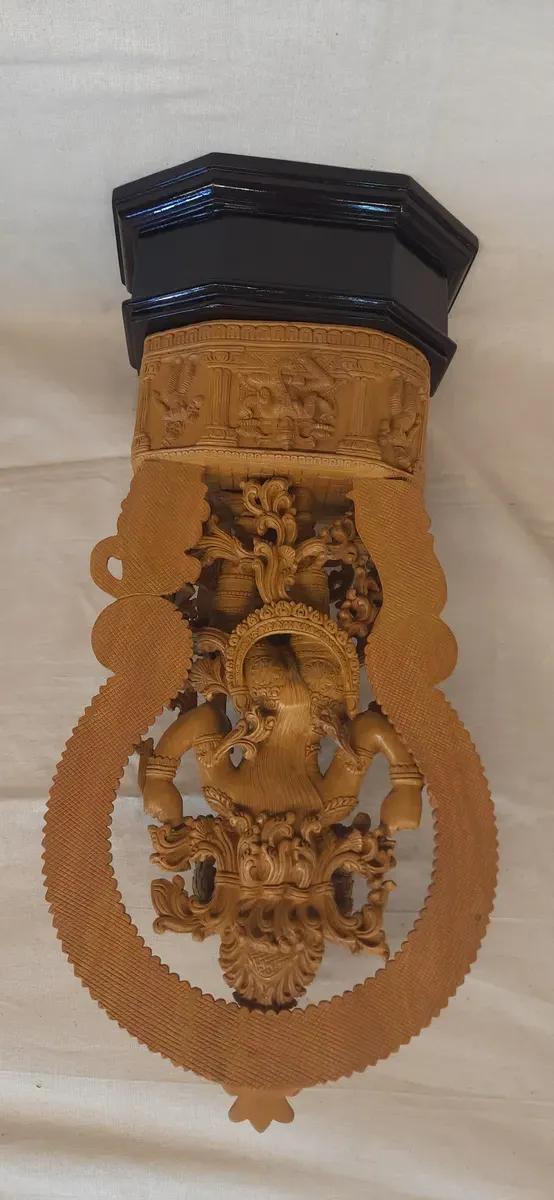
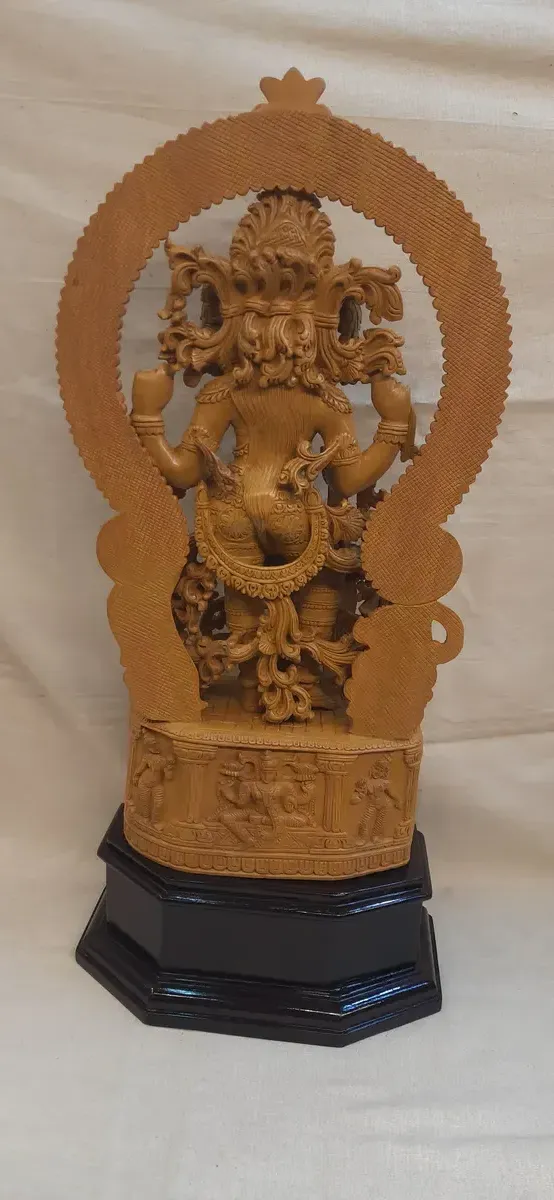
Updates

diff --git a/index.html b/index.html
@@ -1,1 +1,1 @@
-<!doctype html><html lang="en"><head><meta charset="utf-8"/><link rel="icon" href="/Mysore_Handicrafts/logo.png" type="image/png"/><meta name="viewport" content="width=device-width,initial-scale=1"/><meta name="theme-color" content="#FAF9F6"/><meta name="description" content="MYSORE HANDICRAFTS - Premium Sandalwood, Rosewood, and Brass Heritage Artifacts. Experience traditional Indian craftsmanship and divine artistry."/><link rel="apple-touch-icon" href="/Mysore_Handicrafts/logo192.png"/><link rel="manifest" href="/Mysore_Handicrafts/manifest.json"/><link rel="preconnect" href="https://fonts.googleapis.com"><link rel="preconnect" href="https://fonts.gstatic.com" crossorigin><link href="https://fonts.googleapis.com/css2?family=Outfit:wght@300;400;500;600;700&family=Playfair+Display:ital,wght@0,400..900;1,400..900&display=swap" rel="stylesheet"><title>MYSORE HANDICRAFTS | Traditional Sandalwood, Rosewood & Brass Showroom</title><script defer="defer" src="/Mysore_Handicrafts/static/js/main.cfdc4d0b.js"></script><link href="/Mysore_Handicrafts/static/css/main.407c5b4d.css" rel="stylesheet"></head><body><noscript>You need to enable JavaScript to run this app.</noscript><div id="root"></div></body></html>
+<!doctype html><html lang="en"><head><meta charset="utf-8"/><link rel="icon" href="/Mysore_Handicrafts/logo.png" type="image/png"/><meta name="viewport" content="width=device-width,initial-scale=1"/><meta name="theme-color" content="#FAF9F6"/><meta name="description" content="MYSORE HANDICRAFTS - Premium Sandalwood, Rosewood, and Brass Heritage Artifacts. Experience traditional Indian craftsmanship and divine artistry."/><link rel="apple-touch-icon" href="/Mysore_Handicrafts/logo192.png"/><link rel="manifest" href="/Mysore_Handicrafts/manifest.json"/><link rel="preconnect" href="https://fonts.googleapis.com"><link rel="preconnect" href="https://fonts.gstatic.com" crossorigin><link href="https://fonts.googleapis.com/css2?family=Outfit:wght@300;400;500;600;700&family=Playfair+Display:ital,wght@0,400..900;1,400..900&display=swap" rel="stylesheet"><title>MYSORE HANDICRAFTS | Traditional Sandalwood, Rosewood & Brass Showroom</title><script defer="defer" src="/Mysore_Handicrafts/static/js/main.ad207e8a.js"></script><link href="/Mysore_Handicrafts/static/css/main.407c5b4d.css" rel="stylesheet"></head><body><noscript>You need to enable JavaScript to run this app.</noscript><div id="root"></div></body></html>